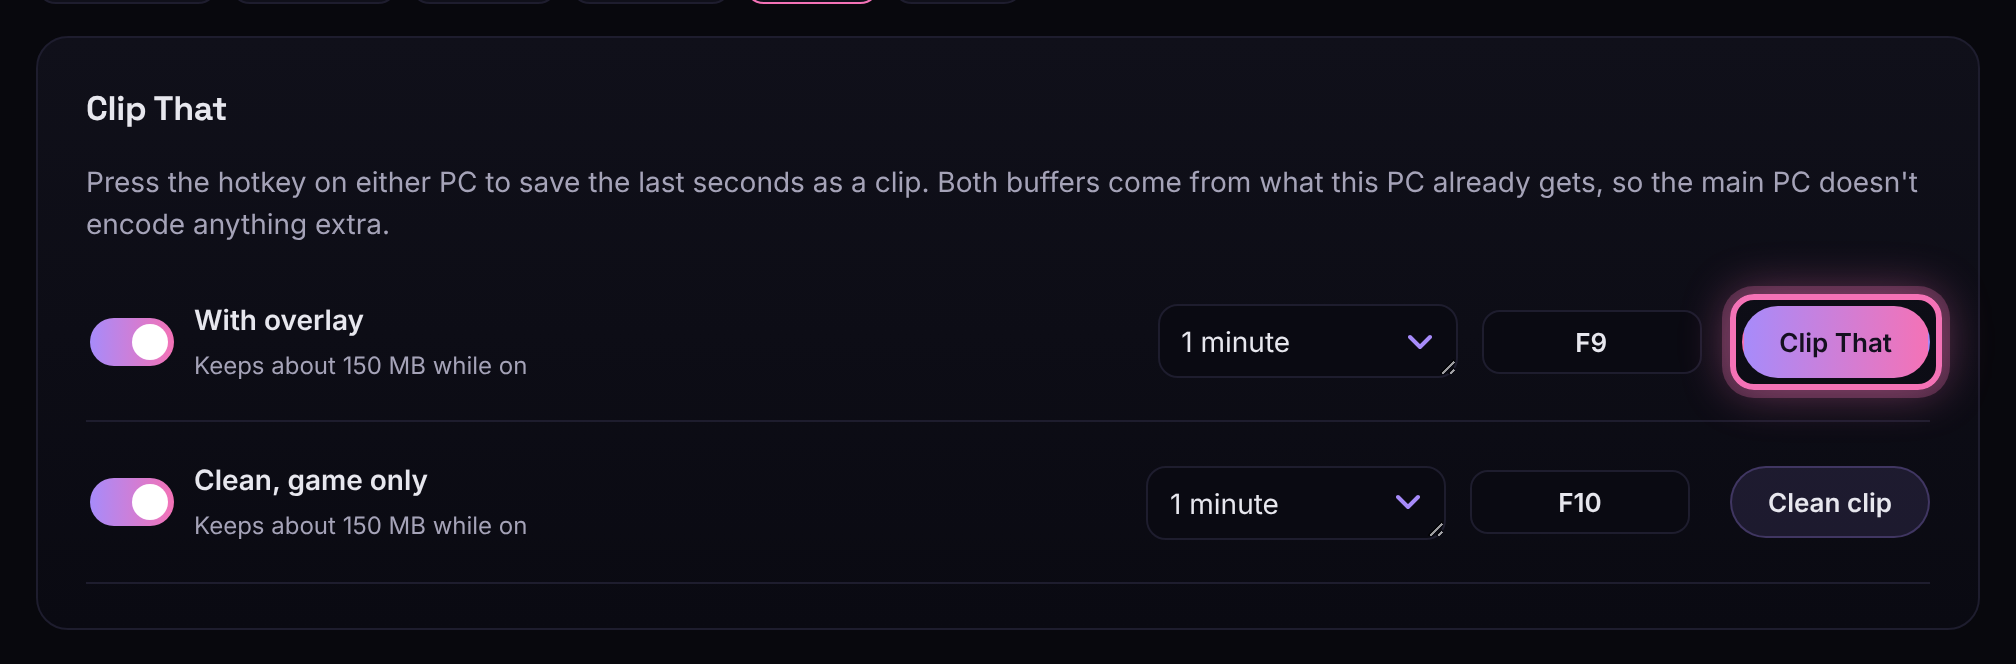
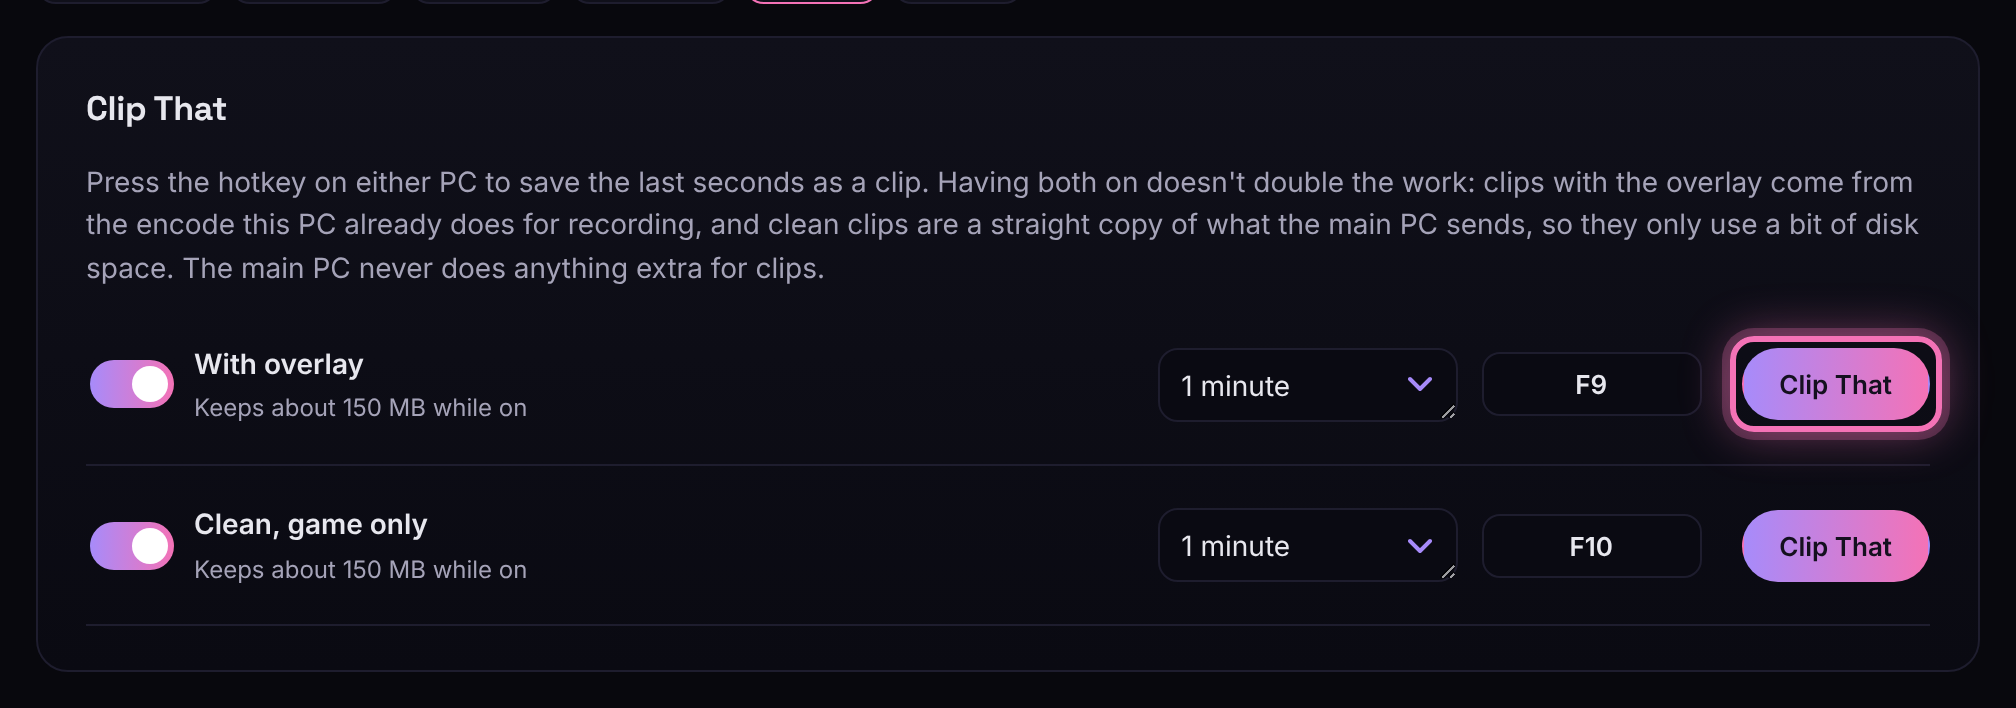
Update docs

diff --git a/docs/guide.md b/docs/guide.md
@@ -26,19 +26,19 @@ Open your overlay on this PC and press Pick your overlay window on the Second PC
 
 ### Step 4: Find the Second PC (main PC)
 
-Your second PC shows up on the Main PC screen with a 4-digit code. Wi-Fi, Ethernet or both works fine as long as both PCs are on the same router.
+Your second PC shows up on the Main PC screen with a 4-digit code. Both PCs have to be on the same router (Wi-Fi, Ethernet or both is fine, not a guest network), or joined with one direct cable.
 
 ![Find the Second PC](screenshots/main-pairing.png)
 
 ### Step 5: Connect (second PC)
 
-The second PC shows Found with the main PC's name. Check it shows the same code and press Connect, and from then on the two PCs connect on their own.
+The second PC shows Found with the main PC's name. Check it shows the same code and press Connect. Next time the second PC shows the main PC as Connected as soon as both are open.
 
 ![Connect](screenshots/pair.png)
 
 ### Step 6: Pick what to send and press Start (main PC)
 
-Pick Screen (works with every game) or your game window, tick the apps you want to hear like the game and Discord, and press Start sending.
+Pick Whole screen and which screen (works with every game), or One window and your game's window. Tick the apps you want to hear like the game and Discord, and press Start sending. You can also press Start sending on the main PC from the second PC while MewCapture is open on both.
 
 ![Pick what to send and press Start](screenshots/main-full.png)
 
@@ -56,7 +56,7 @@ Add your webcam (you can blur or remove its background), images, text, a countdo
 
 ### Step 9: Set the sound (second PC)
 
-In Audio you set each volume with the meters, mute what you don't want, rename anything and pick if recordings keep it in the mix, on its own track or in its own file. Add a source adds the sound of any app on this PC, and the mic comes from the main PC with Send my mic too.
+In Audio you set each volume with the meters, mute what you don't want and rename anything. Own track and file keeps a source apart in the recording and also saves it as its own audio file, ready for editing. Add a source adds the sound of any app on this PC, Listen to the recording lets you hear what the recording gets, and the mic comes from the main PC with Send my mic too.
 
 ![Set the sound](screenshots/mixer.png)
 
@@ -125,7 +125,7 @@ Use Ethernet for the main PC if you can. Wi-Fi works but drops show up as stutte
 ## Questions
 
 **What can the hotkeys do?**<br>
-Clip That, a clean clip, switching scenes and showing or hiding the projector. Click a hotkey box and press the keys you want, they work on both PCs so you can clip while you play.
+Clip That (with the overlay or clean), switching scenes and showing or hiding the projector. Click a hotkey box and press the keys you want, they work on both PCs so you can clip while you play.
 
 **Can I run my overlay on the main PC?**<br>
 No, never. Anti-cheats screenshot the main PC and scan it, also with AI, for things like ESP, so the overlay only runs on the second PC.
@@ -143,7 +143,7 @@ MewCapture only captures the screen like Discord streaming does. It never inject
 A direct Ethernet cable between the two PCs. If a PC has no spare port, a USB to Ethernet adapter works, usually on the second PC. Next best is both PCs on the router with cables.
 
 **The game is black or nothing shows**<br>
-Use Screen instead of Game window, since Game window needs the game in borderless or windowed mode.
+Use Whole screen instead of One window, since One window needs the game in borderless or windowed mode.
 
 **Parts of my overlay disappear, or there's a dark border**<br>
 Drag How much gets removed. If your overlay lets you pick its background color, set it to pure green and press Detect again.

diff --git a/CHANGELOG.md b/CHANGELOG.md
@@ -2,6 +2,21 @@
 
 All changes to MewCapture, newest first.
 
+## v1.0.7
+
+- Recording works again. It said MC-205 and saved nothing because the encoder check and the recording needed the projector to keep changing, and a still picture (waiting for the game, a paused game) stopped both. Clip That had the same cause and saves clips again.
+- The Scenes preview is the live game now, smooth and sharp, instead of a still picture a few times a second.
+- Picking a preset selects it right away with a check mark, and the confirmation stays put instead of jumping.
+- The mixer holds its layout in a small window, and own track now also saves that source as its own file.
+- Listen to the recording: hear exactly what your recording gets.
+- The main PC asks plainly what to send: the whole screen (and which one) or one window.
+- The second PC can start sending on the main PC when MewCapture is open there.
+- Clearer connection help: both PCs on the same router or a direct cable, in the Start guide too, and the PC list just says Connected or Not connected.
+- Output shows how many Mbps and GB per hour your size, fps and quality add up to.
+- Click any guide picture to see it big.
+- MewCapture opens at its normal size again after using Small window, the main PC stays on Balanced unless you change it, and both clip buttons say Clip That.
+- Removed things that confused people: the speakers option in the mixer and the anti-cheat line in Something's Wrong.
+
 ## v1.0.6
 
 - The Second PC just says it's getting the game and at how many fps, without HEVC, Mbps or a delay next to it.

diff --git a/docs/screenshots/README.md b/docs/screenshots/README.md
@@ -1,6 +1,6 @@
 # MewCapture screenshots
 
-Real screenshots of the MewCapture app for mewdma.net and its Learn guides. Each one is 1600x1000 (16:10) PNG. Taken on **MewCapture 1.0.6**.
+Real screenshots of the MewCapture app for mewdma.net and its Learn guides. Each one is 1600x1000 (16:10) PNG. Taken on **MewCapture 1.0.7**.
 
 The app ran with placeholder data: the PCs are called MAIN-PC and SECOND-PC, the addresses are 192.168.0.x, the folder is C:\Users\you, and the game and overlay pictures are placeholders. No stream keys, names, emails or tokens are in any of them.
 
